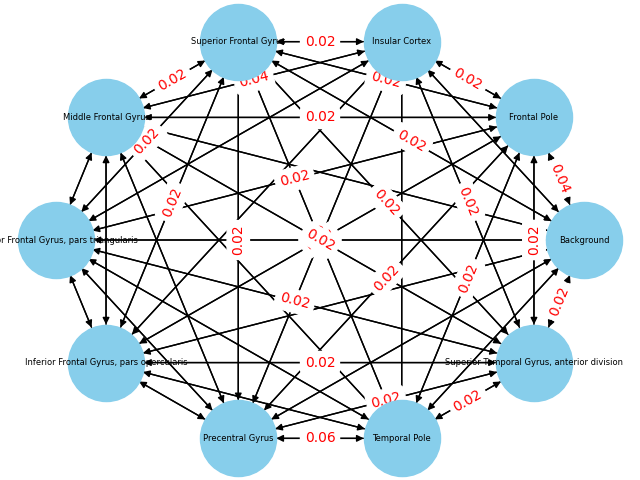
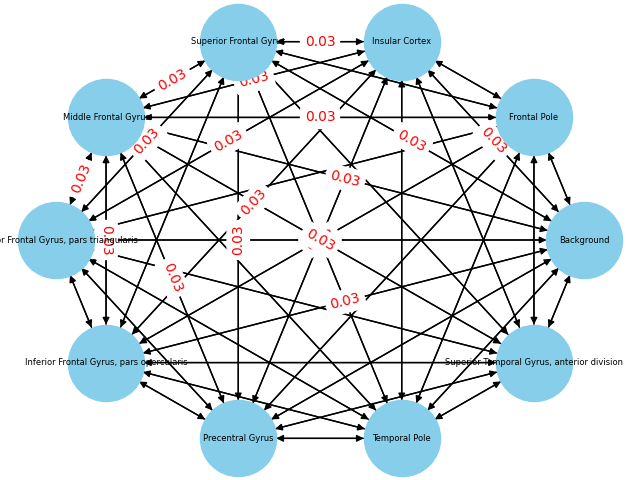
multiple states

diff --git a/hmm.py b/hmm.py
@@ -6,16 +6,18 @@ class HiddenMarkovModel:
         self.initial_prob = np.ones(num_states) / num_states
         self.transition_matrix = np.ones((num_states, num_states)) / num_states
     
-    def fit(self, time_series_data, smoothing=1):
+    def fit(self, time_series_data, threshold=0.5, smoothing=1):
         num_time_points, num_regions = time_series_data.shape
         state_counts = np.zeros((self.num_states, self.num_states))
 
         for t in range(num_time_points - 1):
-            current_state = np.argmax(time_series_data[t])
-            next_state = np.argmax(time_series_data[t + 1])
-            state_counts[current_state][next_state] += 1
+            current_states = np.where(time_series_data[t] > threshold)[0]
+            next_states = np.where(time_series_data[t + 1] > threshold)[0]
+
+            for current_state in current_states:
+                for next_state in next_states:
+                    state_counts[current_state][next_state] += 1
 
         state_counts += smoothing
         self.transition_matrix = state_counts / np.sum(state_counts, axis=1, keepdims=True)
 
-        

diff --git a/utils.py b/utils.py
@@ -49,7 +49,7 @@ def plot(normalized_transition_matrix, labels, num_regions=10):
     pos = nx.circular_layout(G) 
     labels = {i: labels[i] for i in range(10)}
 
-    edge_labels = {(i, j): f'{normalized_transition_matrix[i, j]:.2f}' for i in range(num_regions) for j in range(num_regions) if i != j and float(normalized_transition_matrix[i,j]) > 0.02}
+    edge_labels = {(i, j): f'{normalized_transition_matrix[i, j]:.2f}' for i in range(num_regions) for j in range(num_regions) if i != j and float(normalized_transition_matrix[i,j]) > 0.025}
     print(edge_labels)
 
     nx.draw(G, pos, with_labels=True, labels=labels, font_size=6, node_size=3000, font_color='black', node_color='skyblue')

diff --git a/main.py b/main.py
@@ -7,7 +7,7 @@ def main():
     normalized_roi_time_series = normalize(roi_time_series)
 
     hmm = HiddenMarkovModel(num_states=48)
-    hmm.fit(normalized_roi_time_series)
+    hmm.fit(normalized_roi_time_series, threshold=0.5, smoothing=1)
 
     plot(hmm.transition_matrix, labels=labels, num_regions=10)
 
